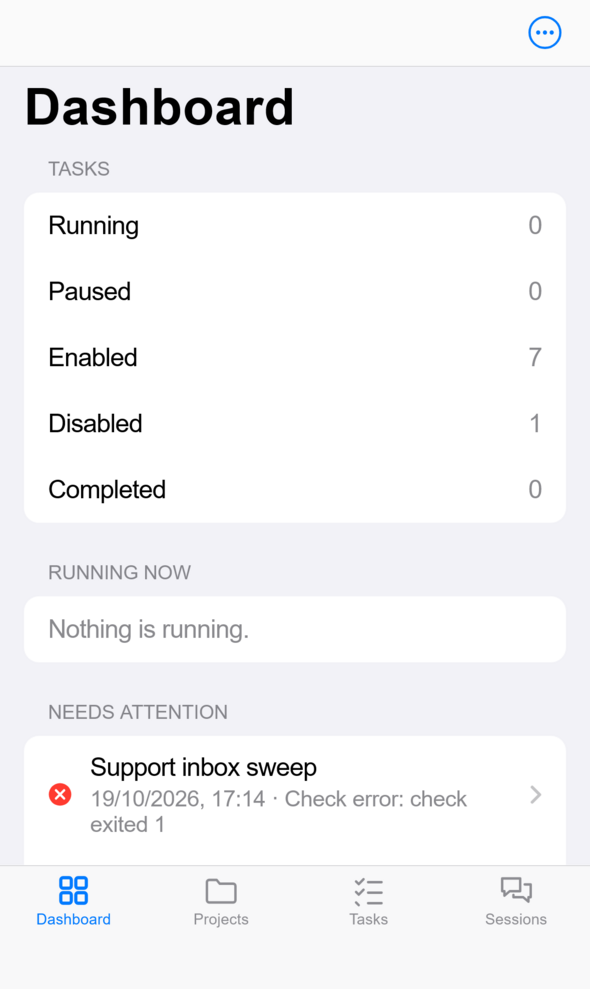
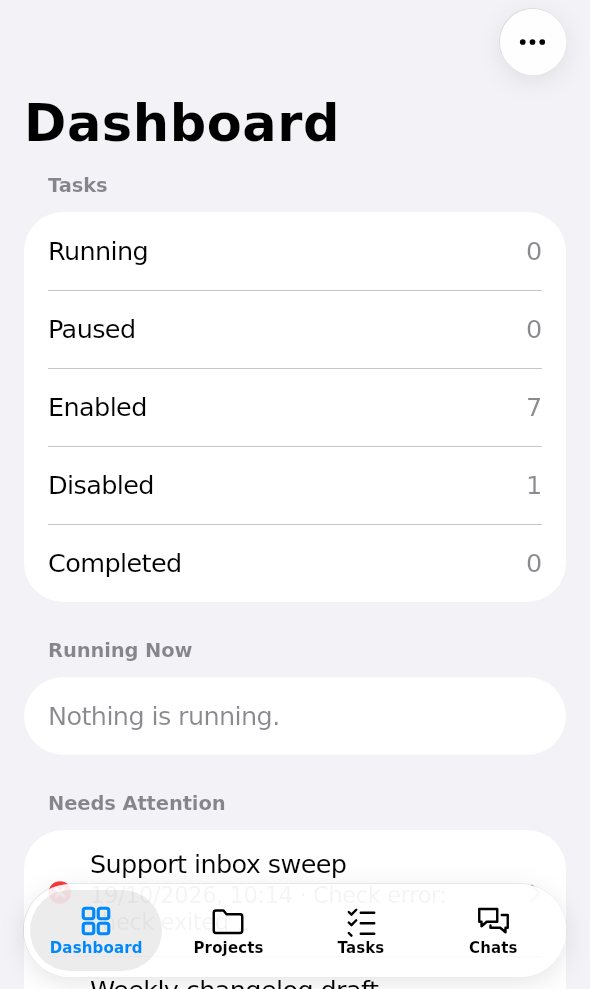
Fix the iPhone Home Screen app: iOS no longer blurs the top bar (no black-translucent status bar), the page no longer stays a status bar short after the keyboard closes, the iOS bar takes the page's color and shows the hard scroll edge only once the page scrolls, the message box is as tall as Send a

diff --git a/src/renderer/src/web/phone-shell.tsx b/src/renderer/src/web/phone-shell.tsx
@@ -63,6 +63,21 @@ function useViewport(probe: React.RefObject<HTMLDivElement | null>): Viewport {
     // On <html>, so layers portaled to <body> (alerts) follow the keyboard too.
     const html = document.documentElement;
     html.classList.add('ph-top');
+    // A Home Screen app on iOS: the first keyboard leaves the whole viewport short by the status bar's height
+    // (932 → 873 on a Pro Max) until the app quits. Hiding the page for one reflow makes WebKit measure it again.
+    const standalone = (navigator as Navigator & { standalone?: boolean }).standalone === true;
+    const tallest = new Map<number, number>();
+    let keyboardSeen = false;
+    let healTimer: ReturnType<typeof setTimeout> | undefined;
+    const heal = () => {
+      if (window.innerHeight >= (tallest.get(window.innerWidth) ?? 0) - 4) return;
+      const scrolled = [...document.querySelectorAll<HTMLElement>('.ph-scroll')].map((el) => [el, el.scrollTop] as const);
+      document.body.style.display = 'none';
+      void document.body.offsetHeight;
+      document.body.style.display = '';
+      for (const [el, top] of scrolled) el.scrollTop = top;
+      apply();
+    };
     const apply = () => {
       if (vv) {
         html.style.setProperty('--vv-h', `${vv.height}px`);
@@ -70,10 +85,18 @@ function useViewport(probe: React.RefObject<HTMLDivElement | null>): Viewport {
       }
       // iOS scrolls the window to show a focused field; the shell is fixed, so it only needs to go back.
       if (window.scrollY !== 0 && !vv) window.scrollTo(0, 0);
-      setVp((old) => {
-        const n = read();
-        return old.width === n.width && old.height === n.height && old.keyboard === n.keyboard && JSON.stringify(old.safe) === JSON.stringify(n.safe) ? old : n;
-      });
+      const n = read();
+      if (standalone) {
+        tallest.set(window.innerWidth, Math.max(tallest.get(window.innerWidth) ?? 0, window.innerHeight));
+        if (n.keyboard) keyboardSeen = true;
+        else if (keyboardSeen) {
+          keyboardSeen = false;
+          clearTimeout(healTimer);
+          // After the keyboard's closing animation.
+          healTimer = setTimeout(heal, 400);
+        }
+      }
+      setVp((old) => (old.width === n.width && old.height === n.height && old.keyboard === n.keyboard && JSON.stringify(old.safe) === JSON.stringify(n.safe) ? old : n));
     };
     apply();
     vv?.addEventListener('resize', apply);
@@ -81,6 +104,7 @@ function useViewport(probe: React.RefObject<HTMLDivElement | null>): Viewport {
     window.addEventListener('resize', apply);
     window.addEventListener('orientationchange', apply);
     return () => {
+      clearTimeout(healTimer);
       vv?.removeEventListener('resize', apply);
       vv?.removeEventListener('scroll', apply);
       window.removeEventListener('resize', apply);
@@ -370,6 +394,93 @@ export interface PhoneShell {
   goBack: () => void;
   /** Whether a window's large title has scrolled away (iOS shows the bar's title then). */
   scrolledPast: Set<string>;
+  /** What's at the top of each window's page, under its bar. */
+  edges: Map<string, TopEdge>;
+}
+
+export interface TopEdge {
+  /** The page's background color along its top edge. */
+  color: string;
+  /** The page's content there has scrolled up, past the bar. */
+  scrolled: boolean;
+}
+
+const isTransparent = (c: string) => c === 'transparent' || /^rgba\(.*,\s*0\)$/.test(c);
+
+/** What's at the middle of a page's top edge: the first background behind it, and whether a scroller there has moved. */
+function readTopEdge(doc: Document, win: Window): TopEdge | null {
+  const hit = doc.elementFromPoint(win.innerWidth / 2, 1);
+  // Nothing hit (a hidden or inert page): keep the last reading.
+  if (!hit || hit === doc.documentElement) return null;
+  let color = '';
+  let scrolled = (doc.scrollingElement?.scrollTop ?? 0) > 0;
+  for (let el: Element | null = hit; el; el = el.parentElement) {
+    const cs = win.getComputedStyle(el);
+    if (!scrolled && el.scrollTop > 0 && /auto|scroll/.test(cs.overflowY)) scrolled = true;
+    if (!color && !isTransparent(cs.backgroundColor)) color = cs.backgroundColor;
+  }
+  return { color: color || win.getComputedStyle(doc.documentElement).backgroundColor, scrolled };
+}
+
+/** Follows the top edge of every window's page: its scrolling, its tabs switching, the page loading again. */
+function useTopEdges(controller: ShellController, screens: Screen[], enabled: boolean): Map<string, TopEdge> {
+  const [edges, setEdges] = useState(() => new Map<string, TopEdge>());
+  const live = screens.filter((sc) => !sc.leaving);
+  const key = live.map((sc) => `${sc.win.w}:${sc.win.nonce}`).join(' ');
+  useEffect(() => {
+    if (!enabled) return;
+    const offs: (() => void)[] = [];
+    for (const sc of live) {
+      const w = sc.win.w;
+      const frame = controller.frameOf(w);
+      if (!frame) continue;
+      let detach: (() => void) | null = null;
+      const attach = () => {
+        detach?.();
+        detach = null;
+        const doc = frame.contentDocument;
+        const win = frame.contentWindow;
+        if (!doc?.body || !win) return;
+        let queued = false;
+        const measure = () => {
+          queued = false;
+          const edge = readTopEdge(doc, win);
+          if (!edge) return;
+          setEdges((old) => {
+            const was = old.get(w);
+            if (was && was.color === edge.color && was.scrolled === edge.scrolled) return old;
+            return new Map(old).set(w, edge);
+          });
+        };
+        const schedule = () => {
+          if (queued) return;
+          queued = true;
+          win.requestAnimationFrame(measure);
+        };
+        const mo = new MutationObserver(schedule);
+        mo.observe(doc.body, { subtree: true, childList: true, attributes: true, attributeFilter: ['class', 'hidden', 'style'] });
+        const scheme = win.matchMedia('(prefers-color-scheme: dark)');
+        doc.addEventListener('scroll', schedule, { capture: true, passive: true });
+        win.addEventListener('resize', schedule);
+        scheme.addEventListener('change', schedule);
+        measure();
+        detach = () => {
+          mo.disconnect();
+          doc.removeEventListener('scroll', schedule, { capture: true });
+          win.removeEventListener('resize', schedule);
+          scheme.removeEventListener('change', schedule);
+        };
+      };
+      attach();
+      frame.addEventListener('load', attach);
+      offs.push(() => {
+        frame.removeEventListener('load', attach);
+        detach?.();
+      });
+    }
+    return () => offs.forEach((f) => f());
+  }, [key, controller, enabled]);
+  return edges;
 }
 
 /** A sheet dragged down, or a screen swiped back: the frame moves it under the finger. */
@@ -402,6 +513,8 @@ export function usePhoneShell(controller: ShellController, os: PhoneOs, localLay
   const navs = usePageNavs();
   const { screens, top } = useScreens(s, os, vp, navs);
   const [scrolledPast, setScrolledPast] = useState(() => new Set<string>());
+  // Only iOS's bar takes the page's color; Android's top app bar has its own.
+  const edges = useTopEdges(controller, screens, os === 'ios');
 
   // Back: bottom to top, the windows over the main one, the top page's own deeper screen, then what the shell has open.
   const layers: BackLayer[] = [];
@@ -492,7 +605,7 @@ export function usePhoneShell(controller: ShellController, os: PhoneOs, localLay
     return () => el.removeEventListener('touchmove', onMove);
   }, []);
 
-  return { s, os, vp, tablet: isTablet(vp), screens, top, rootRef, probeRef, hooks, goBack: historyBack, scrolledPast };
+  return { s, os, vp, tablet: isTablet(vp), screens, top, rootRef, probeRef, hooks, goBack: historyBack, scrolledPast, edges };
 }
 
 // ---------- the windows ----------

diff --git a/src/renderer/src/phone.css b/src/renderer/src/phone.css
@@ -42,7 +42,8 @@ html.phone-window[data-platform='ios'] {
   --accent: #0088ff;
   --accent-fg: #ffffff;
   --green: #248a3d;
-  --yellow: #c93400;
+  /* Dark gold: reads as a warning, not an error, at 4.5:1 or better on white, grouped gray and a selected row. */
+  --yellow: #8a6300;
   --red: #ff383c;
   --info-bg: #e5f1ff;
   font-family: -apple-system, BlinkMacSystemFont, 'SF Pro Text', 'Helvetica Neue', system-ui, sans-serif;
@@ -476,12 +477,20 @@ html.phone-window[data-platform='ios'] .phone-tabbar {
   backdrop-filter: saturate(180%) blur(16px);
   box-shadow: var(--pg-glass-edge), var(--pg-glass-shadow);
 }
-/* What scrolls under it can still scroll clear of it; a pushed screen stops above it. */
-html.phone-window[data-platform='ios'] .phone-main:not(.pushed) .pg-scroll {
-  padding-bottom: calc(62px + max(8px, calc(var(--looper-safe-bottom, 0px) - 12px)) + 24px);
+/* Content scrolls under it and can still scroll clear of it. A pushed screen whose tab is one scrolling
+   pane does the same; one with fixed parts at its bottom (a terminal's key row, Git) stops above it. */
+html.phone-window[data-platform='ios'] .phone-main {
+  --tabbar-h: calc(62px + max(8px, calc(var(--looper-safe-bottom, 0px) - 12px)));
 }
-html.phone-window[data-platform='ios'] .phone-main.pushed .phone-screen {
-  padding-bottom: calc(62px + max(8px, calc(var(--looper-safe-bottom, 0px) - 12px)) + 8px);
+html.phone-window[data-platform='ios'] .phone-main:not(.pushed) .pg-scroll,
+html.phone-window[data-platform='ios'] .phone-main.pushed .status-pane {
+  padding-bottom: calc(var(--tabbar-h) + 24px);
+}
+html.phone-window[data-platform='ios'] .phone-main.pushed .runlog-table-wrap {
+  padding-bottom: calc(var(--tabbar-h) + 8px);
+}
+html.phone-window[data-platform='ios'] .phone-main.pushed .phone-screen:not(:has(.status-pane, .runlog-table-wrap)) {
+  padding-bottom: calc(var(--tabbar-h) + 8px);
 }
 html.phone-window[data-platform='ios'] .phone-tab {
   justify-content: center;
@@ -670,7 +679,11 @@ html.phone-window .runlog-table tr.selected,
 html.phone-window .runlog-table tr.run-row.selected {
   background: var(--info-bg);
 }
-html.phone-window .runlog-table tr.selected td {
+/* :hover and .messages too, to outrank the desktop's white-on-accent rules (a tapped row keeps :hover on iOS). */
+html.phone-window .runlog-table tr.selected td,
+html.phone-window .runlog-table tr.selected:hover td,
+html.phone-window .messages .runlog-table tr.selected td,
+html.phone-window .messages .runlog-table tr.selected:hover td {
   color: var(--pg-label, var(--fg));
 }
 html.phone-window[data-platform='android'] .runlog-table tr.selected,
@@ -678,7 +691,10 @@ html.phone-window[data-platform='android'] .runlog-table tr.run-row.selected {
   border-radius: 16px;
   background: var(--md-secondary-container);
 }
-html.phone-window[data-platform='android'] .runlog-table tr.selected td {
+html.phone-window[data-platform='android'] .runlog-table tr.selected td,
+html.phone-window[data-platform='android'] .runlog-table tr.selected:hover td,
+html.phone-window[data-platform='android'] .messages .runlog-table tr.selected td,
+html.phone-window[data-platform='android'] .messages .runlog-table tr.selected:hover td {
   color: var(--md-on-secondary-container);
 }
 
@@ -1036,17 +1052,43 @@ html.phone-window .chat-msg {
 html.phone-window .chat-agent {
   border-radius: 18px;
 }
+/* The message box runs from the top of Send to the bottom of Stop; the icon row and attachments sit above it. */
 html.phone-window .chat-composer {
-  flex-wrap: nowrap;
-  align-items: flex-end;
-  gap: 8px;
+  display: grid;
+  grid-template-columns: minmax(0, 1fr) auto;
+  align-items: end;
+  gap: 0 8px;
   padding: 6px 10px calc(8px + var(--looper-safe-bottom, 0px));
+}
+html.phone-window .chat-composer .composer-main {
+  display: contents;
+}
+html.phone-window .chat-composer .chat-commandbar {
+  grid-area: 1 / 1 / 2 / 3;
+}
+html.phone-window .chat-composer .chat-pending {
+  grid-area: 2 / 1 / 3 / 3;
+}
+html.phone-window .chat-composer .composer-input {
+  grid-area: 3 / 1;
+  align-self: stretch;
+}
+html.phone-window[data-platform='android'] .chat-composer .composer-input {
+  margin: 4px 0;
+}
+html.phone-window .chat-composer .composer-actions {
+  grid-area: 3 / 2;
 }
 html.phone-window.keyboard-up .chat-composer,
 html.phone-window.keyboard-up .term-keys,
 html.phone-window.keyboard-up .editor-footer,
 html.phone-window.keyboard-up .guidance-compose {
   padding-bottom: 8px;
+}
+html.phone-window .chat-composer .composer-input textarea {
+  position: absolute;
+  inset: 0;
+  height: 100%;
 }
 html.phone-window .chat-composer textarea {
   min-height: 40px;

diff --git a/src/renderer/src/web/ios.css b/src/renderer/src/web/ios.css
@@ -12,8 +12,8 @@ html[data-platform='ios'] {
   --ios-label2: rgba(60, 60, 67, 0.6);
   --ios-label3: rgba(60, 60, 67, 0.3);
   --ios-sep: rgba(60, 60, 67, 0.29);
-  /* The hard scroll edge under the bars (iOS 27's default): nearly opaque, with a hairline. */
-  --ios-bar: rgba(249, 249, 249, 0.9);
+  /* The hard scroll edge (iOS 27's default under a bar): opaque, with a hairline. */
+  --ios-bar: #f9f9f9;
   --ios-fill: rgba(118, 118, 128, 0.12);
   --ios-fill2: rgba(120, 120, 128, 0.16);
   /* Liquid Glass, regular: the small controls (bar buttons, the tab bar) and the larger, denser
@@ -42,7 +42,7 @@ html[data-platform='ios'] {
     --ios-label2: rgba(235, 235, 245, 0.6);
     --ios-label3: rgba(235, 235, 245, 0.3);
     --ios-sep: rgba(84, 84, 88, 0.65);
-    --ios-bar: rgba(22, 22, 23, 0.9);
+    --ios-bar: #161617;
     --ios-fill: rgba(118, 118, 128, 0.24);
     --ios-fill2: rgba(120, 120, 128, 0.32);
     /* iOS 27 draws dark glass lighter than 26 did. */
@@ -77,25 +77,24 @@ html[data-platform='ios'] {
 }
 
 /* ---------- the navigation bar ---------- */
+/* No fill of its own (the frame gives it the page's top color, inline), and the hard scroll edge
+   (.edge) once the page under it has scrolled. Nothing passes behind it, so there's nothing to blur. */
 .ios-bar {
   position: relative;
   z-index: 1;
   display: flow-root;
   flex: none;
   padding: env(safe-area-inset-top) env(safe-area-inset-right) 0 env(safe-area-inset-left);
+  background: transparent;
+}
+.ios-bar.edge {
   background: var(--ios-bar);
-  -webkit-backdrop-filter: saturate(180%) blur(20px);
-  backdrop-filter: saturate(180%) blur(20px);
-  border-bottom: 0.5px solid var(--ios-sep);
+  box-shadow: 0 0.5px 0 var(--ios-sep);
 }
 .ios .pres-page-sheet .ios-bar,
 .ios .pres-form-sheet .ios-bar,
 .ios-own-sheet .ios-bar {
   padding-top: 0;
-  background: transparent;
-  -webkit-backdrop-filter: none;
-  backdrop-filter: none;
-  border-bottom: 0;
 }
 .ios-bar-row {
   display: grid;
@@ -887,7 +886,6 @@ html[data-platform='ios'] {
 /* Without backdrop blur (some WebKit builds), the materials go nearly opaque so text over content stays legible. */
 @supports not (backdrop-filter: blur(1px)) {
   html[data-platform='ios'] {
-    --ios-bar: rgba(249, 249, 249, 0.98);
     --ios-glass: rgba(246, 246, 246, 0.97);
     --ios-glass-dense: rgba(245, 245, 245, 1);
   }
@@ -895,7 +893,6 @@ html[data-platform='ios'] {
 @media (prefers-color-scheme: dark) {
   @supports not (backdrop-filter: blur(1px)) {
     html[data-platform='ios'] {
-      --ios-bar: rgba(22, 22, 23, 0.98);
       --ios-glass: rgba(58, 58, 60, 0.97);
       --ios-glass-dense: rgba(44, 44, 46, 1);
     }

diff --git a/src/renderer/src/web/IosFrame.tsx b/src/renderer/src/web/IosFrame.tsx
@@ -74,6 +74,15 @@ export function IosFrame({ controller }: { controller: ShellController }) {
     const meta = document.querySelector<HTMLMetaElement>('meta[name="viewport"]');
     if (meta && !/maximum-scale/.test(meta.content)) meta.content += ', maximum-scale=1';
   }, []);
+  // The status bar takes theme-color: the top screen's bar color, so the two read as one.
+  const topEdge = shell.top ? shell.edges.get(shell.top.win.w) : undefined;
+  useEffect(() => {
+    const bar = shell.rootRef.current?.querySelector('.ph-win.top .ios-bar');
+    if (!bar) return;
+    const own = getComputedStyle(bar).backgroundColor;
+    const color = /^rgba\(.*,\s*0\)$/.test(own) ? getComputedStyle(bar.closest('.ph-card') ?? bar).backgroundColor : own;
+    for (const tc of document.querySelectorAll<HTMLMetaElement>('meta[name="theme-color"]')) if (tc.content !== color) tc.content = color;
+  }, [shell.rootRef, shell.top?.win.w, topEdge]);
   const overlay = !!more || device;
   useEffect(() => {
     if (!overlay) return;
@@ -139,8 +148,10 @@ function IosBar({ shell, controller, sc, onMore }: { shell: PhoneShell; controll
   const sheet = sc.pres === 'page-sheet' || sc.pres === 'form-sheet';
   const showTitle = !nav?.largeTitle || shell.scrolledPast.has(sc.win.w);
   const hasMore = sc.pres === 'root' || !!sc.win.menu?.length;
+  // The bar has no fill of its own: it's the page's top color, with the hard scroll edge once the page scrolls.
+  const edge = shell.edges.get(sc.win.w);
   return (
-    <header className="ios-bar">
+    <header className={`ios-bar${edge?.scrolled ? ' edge' : ''}`} style={edge && !edge.scrolled ? { background: edge.color } : undefined}>
       {sc.pres === 'page-sheet' && !shell.tablet && <div className="ios-grabber" aria-hidden="true" />}
       <div className="ios-bar-row">
         <div className="ios-bar-lead">

diff --git a/src/main/remote-access/pwa.ts b/src/main/remote-access/pwa.ts
@@ -11,7 +11,7 @@ const MOBILE_HEAD = [
   `<meta name="theme-color" content="${THEME_DARK}" media="(prefers-color-scheme: dark)">`,
   '<meta name="mobile-web-app-capable" content="yes">',
   '<meta name="apple-mobile-web-app-capable" content="yes">',
-  '<meta name="apple-mobile-web-app-status-bar-style" content="black-translucent">',
+  // No black-translucent: under it, iOS 26+ blurs the top ~110 px of a Home Screen app, the bar's title and buttons included.
   '<meta name="apple-mobile-web-app-title" content="Looper">',
   '<link rel="apple-touch-icon" href="/icons/apple-touch-icon.png">',
   '<link rel="manifest" href="/manifest.webmanifest">',
